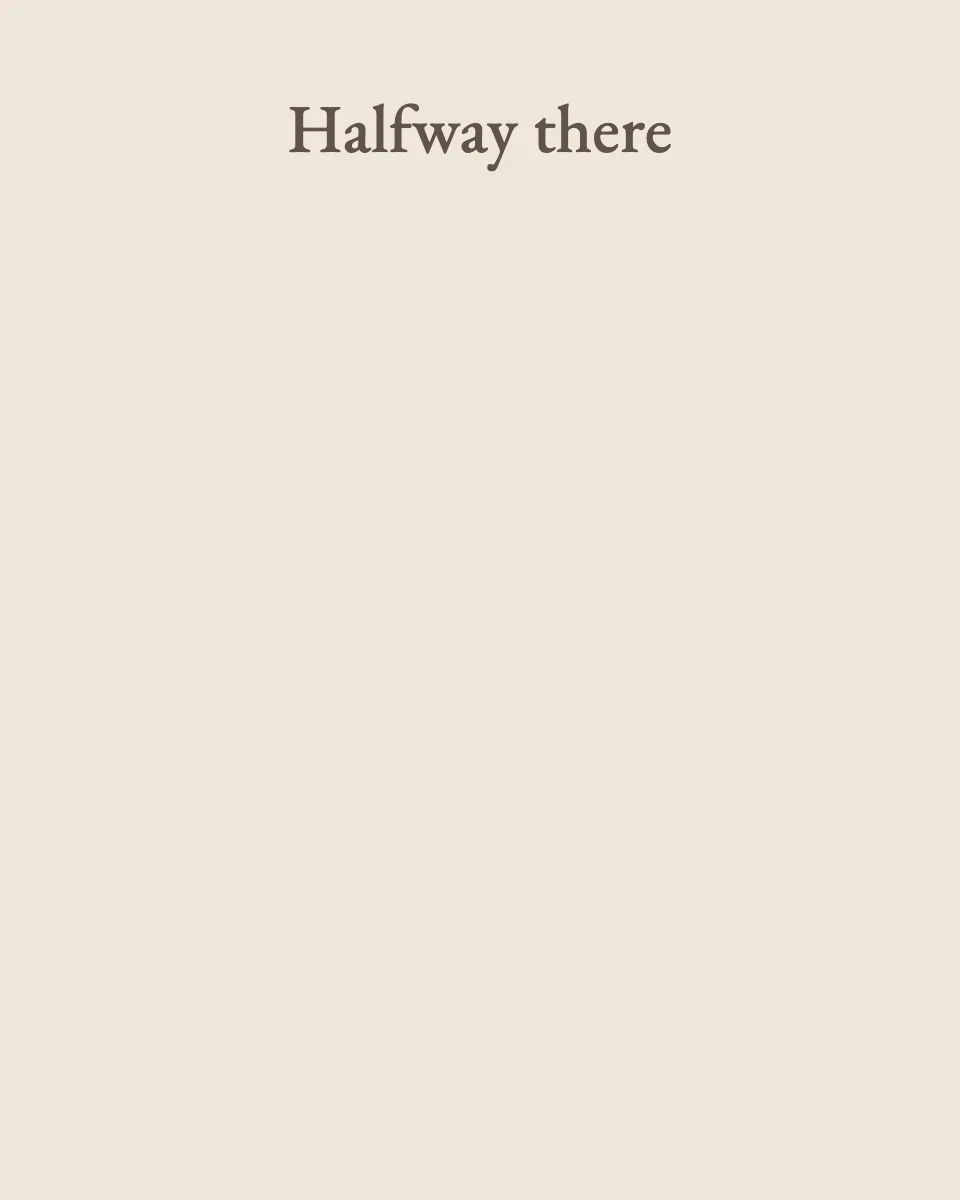
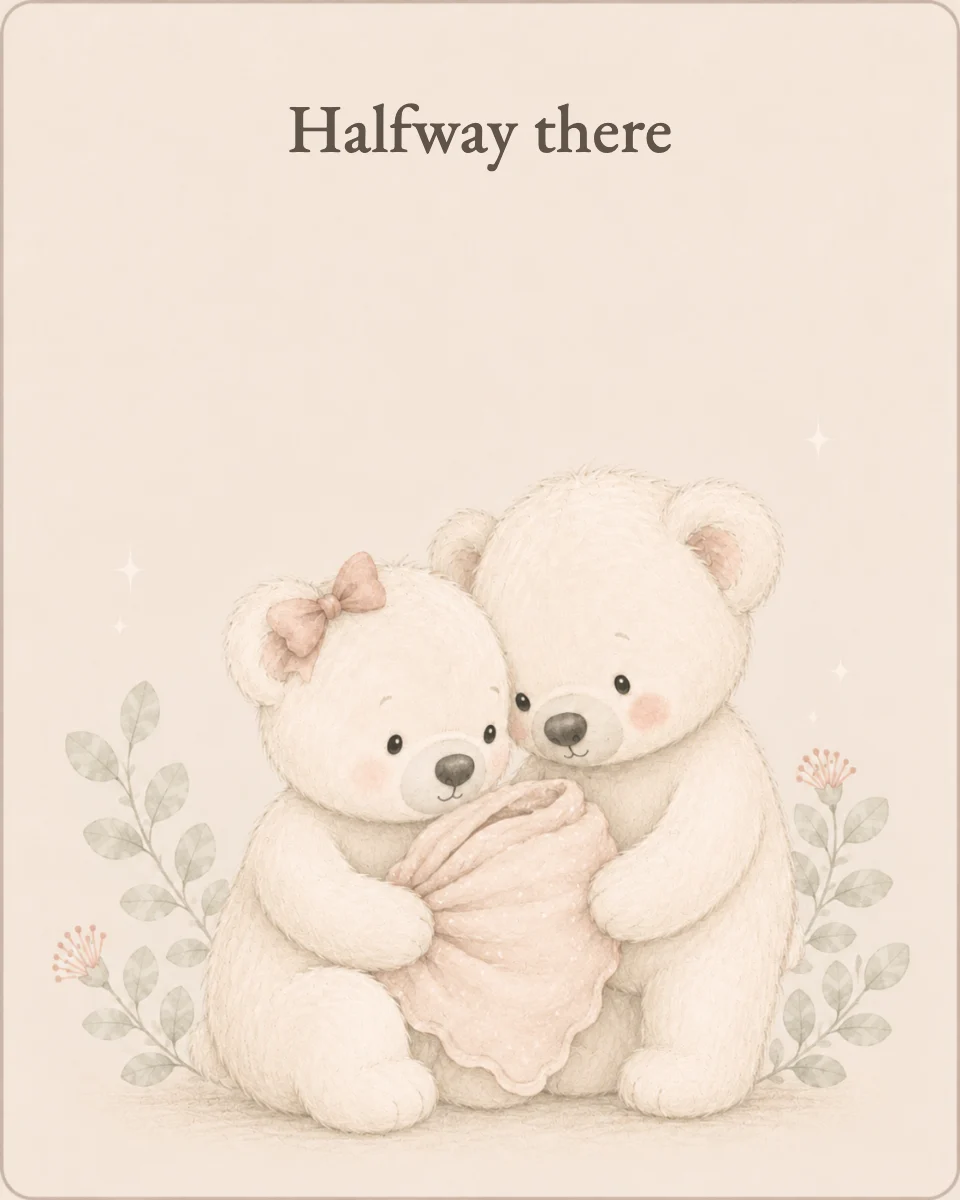
Moments: pregnancy gentle library — due-date countdown, owner-owned, +20 couple cards
"Before you arrived" is now live as its own gentle library on the pregnancy
Moments tab, anchored to the due date as a COUNTDOWN (unlike baby, which counts
up from birth). renderPregLibrary mirrors the baby library but:
- catalogue stage=Pregnancy; three phases (The secret / Telling & feeling / The
  countdown), the current gestational-week phase open by default.
- "For you right now · N weeks to go" — suggested cards near pregWeek().
- capture stored owner-owned in state.pregnancy.journey.saved (synced via the
  pregnancy doc) — NEVER the shared baby blob. Privacy split verified.

The capture sheet (renderMomentDetail/saveJourneyMoment/removeJourneyMoment) is
now scope-aware (baby vs preg) without changing the baby flow.

- 20 couple illustrations mapped + baked (discovery → shower → nursery → countdown).
- docs/MOMENTS-PLAN.md: pregnancy countdown spec.
- SW v146.

diff --git a/app/index.html b/app/index.html
@@ -3925,12 +3925,16 @@ function renderPregMoments(){
       </div>
     </div>`;
   }).join('');
+  const days=pregDaysToGo();
+  const togo=(days!=null&&days>=0)?(days<=7?'almost here':Math.round(days/7)+' weeks to go'):'';
   return `<div class="fade-in">
-    <div class="greeting">Moments 📷</div>
-    <div class="greeting-sub">Your scans and bump pictures, paired with how big your baby was that week. The first photo album, before the album.</div>
-    <button class="btn-primary" style="background:var(--preg);margin:6px 0 14px" onclick="openAddMoment()">${I.camera} Add a moment</button>
-    ${renderJourneySection(pj,'pregnancy',pregJourneyTitle())}
-    ${cards||(pj.length?'':`<div class="preg-card"><div class="pc-ico">🖼</div><div><div class="pc-t">Nothing here yet</div><div class="pc-b">Add your first ultrasound after a scan, or a bump photo any week. Each one is saved with the week and what size your baby was.</div></div></div>`)}
+    <div class="greeting">${escapeHtml(pregJourneyTitle())}</div>
+    <div class="greeting-sub">Your story before they arrive${togo?', '+escapeHtml(togo):''} — the little moments on the way to meeting them.</div>
+    ${renderPregLibrary()}
+    <div class="sec-title" style="margin-top:18px">Bump &amp; scan album</div>
+    <div class="greeting-sub" style="margin-bottom:10px">Week-tagged scans and bump photos, with how big your baby was that week.</div>
+    ${cards||''}
+    <div class="add-row" onclick="openAddMoment()">${I.plus} Add a bump or scan photo</div>
   </div>`;
 }
 function openAddMoment(){
@@ -6186,8 +6190,10 @@ function glPickWho(l,el){ if(!glDraft) return; glDraft.who=(glDraft.who===l)?'':
 function glLoadPhoto(input){ const f=input.files[0]; if(!f)return; downscaleToData(f,1200,0.8,function(data){ glDraft.photoData=data; glDraft.removePhoto=false; renderMomentDetail(); }); }
 function glClearPhoto(){ if(!glDraft) return; glDraft.photoData=null; glDraft.removePhoto=true; renderMomentDetail(); }
 function renderMomentDetail(){
-  const d=glDraft; if(!d) return; const card=d.card; const saved=glGetSaved(d.cardId); const isCustom=!!card.custom;
+  const d=glDraft; if(!d) return; const card=d.card; const isPreg=d.scope==='preg';
+  const saved=isPreg?pregJGet(d.cardId):glGetSaved(d.cardId); const isCustom=!!card.custom;
   const bn=escapeHtml((activeBaby()||{}).name||'your baby');
+  const sub=isPreg?'Saved privately to your pregnancy journey 🤍':(escapeHtml(card.section||'Moments')+' · saved privately to '+bn+'’s scrapbook');
   const title=isCustom?(d.title||'Your own moment'):(card.cap||'A moment');
   const preview=card.art?`<img class="card-prev" src="journey-art/${card.art}" alt="${escapeHtml(card.cap||'')}">`:'';
   const existing=(!d.removePhoto&&saved&&saved.photoId)?photoSrc(saved.photoId):'';
@@ -6196,7 +6202,7 @@ function renderMomentDetail(){
     : existing
       ? `<div class="food-preview"><img src="${existing}"><button class="rm" onclick="glClearPhoto()">×</button></div>`
       : `<button class="btn-ghost" style="margin:0" onclick="document.getElementById('glPhoto').click()">${I.camera} Add a photo</button>`;
-  openSheet(`<h2>${escapeHtml(title)}</h2><div class="sub">${escapeHtml(card.section||'Moments')} · saved privately to ${bn}’s scrapbook</div>
+  openSheet(`<h2>${escapeHtml(title)}</h2><div class="sub">${sub}</div>
     ${preview}
     ${isCustom?`<div class="field"><label>What happened?</label><input id="glTitle" maxlength="60" placeholder="e.g. First trip to the sea" value="${escapeHtml(d.title||'')}" oninput="glDraft.title=this.value"></div>`:''}
     <input type="file" id="glPhoto" accept="image/*" style="display:none" onchange="glLoadPhoto(this)">
@@ -6208,20 +6214,88 @@ function renderMomentDetail(){
     ${saved?`<button class="btn-ghost" style="margin-top:8px;color:var(--ink-soft)" onclick="removeJourneyMoment('${d.cardId}')">Remove this moment</button>`:''}`,'star');
 }
 async function saveJourneyMoment(){
-  const b=activeBaby(); const d=glDraft; if(!b||!d) return;
+  const d=glDraft; if(!d) return; const isPreg=d.scope==='preg'; const b=activeBaby();
+  if(!isPreg && !b) return; if(isPreg && !state.pregnancy) return;
   const note=((document.getElementById('glNote')||{}).value||'').trim();
   const date=((document.getElementById('glDate')||{}).value||'');
   const title=d.card.custom?((((document.getElementById('glTitle')||{}).value)||'').trim()):'';
-  const saved=glGetSaved(d.cardId)||{};
+  const saved=(isPreg?pregJGet(d.cardId):glGetSaved(d.cardId))||{};
   let photoId=saved.photoId||null; if(d.removePhoto) photoId=null;
   if(d.photoData){ photoId=uid(); await PhotoStore.set(photoId,d.photoData); }
   if(!photoId && !note && !(d.card.custom&&title)){ toast('Add a photo or a note'); return; }
   const rec={ photoId:photoId, note:note, date:date, who:d.who||'', at:saved.at||now(), updated:now() };
-  if(d.card.custom){ rec.custom=true; rec.title=title||'A moment'; rec.section='Custom moments'; }
-  journeySaved()[d.cardId]=rec;
-  glDraft=null; persist(); closeSheet(); render(); toast('Saved to '+(b.name||'your baby')+'’s scrapbook 🤍');
+  if(d.card.custom){ rec.custom=true; rec.title=title||'A moment'; rec.section=isPreg?'Before you arrived':'Custom moments'; }
+  if(isPreg) pregJSaved()[d.cardId]=rec; else journeySaved()[d.cardId]=rec;
+  glDraft=null; persist(); closeSheet(); render(); toast(isPreg?'Saved to your pregnancy journey 🤍':'Saved to '+(b.name||'your baby')+'’s scrapbook 🤍');
 }
-function removeJourneyMoment(id){ const m=journeySaved(); delete m[id]; glDraft=null; persist(); closeSheet(); render(); toast('Removed'); }
+function removeJourneyMoment(id){ const isPreg=glDraft&&glDraft.scope==='preg'; const m=isPreg?pregJSaved():journeySaved(); delete m[id]; glDraft=null; persist(); closeSheet(); render(); toast('Removed'); }
+
+/* ===== Pregnancy gentle library — owner-owned (state.pregnancy.journey.saved), anchored to the
+   due date so the story reads as a COUNTDOWN. Never the shared baby blob (privacy split). ===== */
+function pregJSaved(){ const p=state.pregnancy; if(!p) return {}; if(!p.journey) p.journey={}; if(!p.journey.saved) p.journey.saved={}; return p.journey.saved; }
+function pregJGet(id){ return pregJSaved()[id]||null; }
+function pregCat(){ return ((window.JOURNEY_CAT&&window.JOURNEY_CAT.cards)||[]).filter(function(c){return c.stage==='Pregnancy';}); }
+var PREG_MONTHS={one:4,two:8,three:12,four:16,five:20,six:24,seven:28,eight:32,nine:36};
+// timing/caption -> approx gestational week, so the journey reads as a countdown to the due date.
+function pregCardWeek(c){
+  const t=(c.timing||'').toLowerCase(), cap=(c.cap||'').toLowerCase(); var m;
+  if(/months? pregnant/.test(cap)){ m=cap.match(/(one|two|three|four|five|six|seven|eight|nine)/); if(m&&PREG_MONTHS[m[1]]) return PREG_MONTHS[m[1]]; }
+  if(/found out|two little lines|happy tears/.test(cap)) return 5;
+  if(/reveal|it.s a (boy|girl)/.test(cap)) return 20;
+  if(/announce/.test(cap)) return 14;
+  if(/chose your name/.test(cap)) return 28;
+  if(/blessed/.test(cap)) return 30;
+  if(/told (mama|papa)|our (little )?secret/.test(cap)) return 12;
+  if((m=t.match(/weeks? (\d+)\s*-\s*(\d+)/))) return Math.round((+m[1]+ +m[2])/2);
+  if((m=t.match(/approx week (\d+)|week (\d+)/))) return +(m[1]||m[2]);
+  if(/first trimester/.test(t)) return 9;
+  if(/second trimester/.test(t)) return 20;
+  if(/third trimester/.test(t)) return 32;
+  if((m=t.match(/(\d+)\s*days? to go/))) return Math.round(40-(+m[1])/7);
+  if(/final (week|day|month)|almost/.test(t)) return 38;
+  if(/due date|ready to meet|waiting/.test(t)) return 40;
+  if(/any day|overdue/.test(t)) return 40;
+  return 25;
+}
+function pregPhase(w){ return w<=13?0:w<=27?1:2; }
+var PREG_PHASES=[{t:'The secret'},{t:'Telling & feeling'},{t:'The countdown'}];
+function pregJSuggested(){
+  const wk=pregWeek(); const saved=pregJSaved();
+  return pregCat().filter(function(c){return !saved[c.id];}).map(function(c){return {c:c,w:pregCardWeek(c)};})
+    .filter(function(x){return x.w>=wk-2 && x.w<=wk+4;}).sort(function(a,b){return Math.abs(a.w-wk)-Math.abs(b.w-wk);}).slice(0,5).map(function(x){return x.c;});
+}
+function pregJCardHtml(card){
+  const saved=pregJGet(card.id);
+  const cls=saved?'saved':'empty';
+  const img=(saved&&saved.photoId)?photoSrc(saved.photoId):(card.art?('journey-art/'+card.art):'');
+  const art=img?`<img src="${img}" loading="lazy" alt="${escapeHtml(card.cap||'')}">`:`<div class="gl-ph">${escapeHtml(card.cap||(saved&&saved.title)||'A moment')}</div>`;
+  const cap=saved?`<div class="t">${escapeHtml(card.cap||saved.title||'')}</div><div class="s">${escapeHtml(saved.date?glDateLabel(saved.date):'Saved')}</div>`:`<div class="s">Add when ready</div>`;
+  const q=escapeHtml(((card.cap||'')+' '+(card.sub||'')).toLowerCase());
+  return `<div class="gl-card ${cls}" data-q="${q}" onclick="openPregMoment('${card.id}')"><div class="gl-art">${art}${saved?'<span class="gl-check">'+I.check+'</span>':''}</div><div class="gl-cap">${cap}</div></div>`;
+}
+function renderPregLibrary(){
+  const p=state.pregnancy; if(!p||state.lossHolding) return '';
+  const wk=pregWeek(), days=pregDaysToGo();
+  const togo=(days!=null&&days>=0)?(days<=7?'almost here':Math.round(days/7)+' weeks to go'):(days!=null?'any day now':'');
+  const cards=pregCat();
+  const sug=pregJSuggested();
+  const groups=[0,1,2].map(function(ph){
+    const cs=cards.filter(function(c){return pregPhase(pregCardWeek(c))===ph;}).sort(function(a,b){return pregCardWeek(a)-pregCardWeek(b);});
+    if(!cs.length) return '';
+    const saved=pregJSaved(); const sv=cs.filter(function(c){return saved[c.id];}).length;
+    const open=pregPhase(wk)===ph;
+    return `<details class="gl-group" ${open?'open':''} data-sec="${ph}"><summary><span class="gt">${PREG_PHASES[ph].t}</span><span class="gc">${sv?sv+' saved · ':''}${cs.length} moments</span></summary><div class="gl-grid">${cs.map(pregJCardHtml).join('')}</div></details>`;
+  }).join('');
+  return `<div id="pglRoot">
+    <div class="field gl-search"><input id="pglSearch" placeholder="Search your pregnancy moments…" autocomplete="off" oninput="pglFilter(this.value)"></div>
+    ${sug.length?`<div class="gl-suggest"><div class="gl-st"><span class="t">For you right now${togo?' · '+escapeHtml(togo):''}</span><span class="m">optional</span></div><div class="gl-rail">${sug.map(pregJCardHtml).join('')}</div></div>`:''}
+    <button class="gl-create" onclick="openPregMoment('cust-'+uid())"><span class="ic">${I.plus}</span>Add your own moment</button>
+    <div id="pglGroups">${groups}</div>
+  </div>`;
+}
+function pglFilter(q){ q=(q||'').trim().toLowerCase(); document.querySelectorAll('#pglGroups .gl-group').forEach(function(g){var any=false;g.querySelectorAll('.gl-card').forEach(function(c){var hit=!q||(c.getAttribute('data-q')||'').indexOf(q)>=0;c.style.display=hit?'':'none';if(hit)any=true;});g.style.display=any?'':'none';if(q)g.open=true;}); }
+function pregJCard(id){ var c=pregCat().find(function(x){return x.id===id;}); if(c) return c; var s=pregJGet(id); return {id:id, stage:'Pregnancy', section:'Before you arrived', cap:(s&&s.title)||'A moment', art:null, custom:true}; }
+function openPregMoment(id){ var card=pregJCard(id); if(id.indexOf('cust-')===0) card.custom=true; var s=pregJGet(id); glDraft={cardId:id, card:card, scope:'preg', photoData:null, removePhoto:false, who:(s&&s.who)||'', title:(s&&s.title)||''}; renderMomentDetail(); }
 function openPetSetup(){
   const b=activeBaby(); if(!b)return;
   openSheet(`<h2>Your pet 🐾</h2><div class="sub">Add your pet so Cubby can celebrate their firsts with ${escapeHtml(b.name)}. Skip anytime.</div>

diff --git a/app/sw.js b/app/sw.js
@@ -1,6 +1,6 @@
 /* Cubby service worker.
    Bump CACHE on every deploy so old assets are cleared. */
-const CACHE = 'little-log-v145';
+const CACHE = 'little-log-v146';
 const ASSETS = [
   '/app/',
   '/app/index.html',

diff --git a/docs/MOMENTS-PLAN.md b/docs/MOMENTS-PLAN.md
@@ -1,0 +1,121 @@
+# Moments & Milestones — Plan & Status
+
+The single source of truth for the Moments content + structure. Sprint-agnostic: we plan
+from here, not batch-to-batch. (Build context lives in `MOMENTS-HANDOFF.md`; tiers in
+`journey-tiers.json`.)
+
+_Last organized: 2026-06-30. Live: gentle library + 71 real watercolour cub cards, SW v145._
+
+---
+
+## 1. The card model — TWO types
+
+- **SINGLE moment** — one photo / note / date, captured once. The default.
+  _First tooth, First steps, Hello world, One month old._  ✅ works today.
+- **COLLECTION** — one card that holds **many** captures over time and grows into a little
+  album (shows a count + a stacked-photo look). For relationships and anything **recurring**.
+  _With Mama, Diwali, Birthdays._  🔧 **needs build** (small: a `collection` flag + multi-capture in the moment sheet; the relationship-photo feature already does multi-capture today).
+
+**Why this matters (less-is-more):** collections collapse ~40 thin, arbitrary cards into a
+handful of meaningful ones that *deepen for years*. Fewer cards, more capturing.
+
+---
+
+## 2. Status by section
+
+| Section | total | core / nice / filler | single / collection | art done |
+|---|---|---|---|---|
+| Before you arrived (pregnancy) | 54 | 46 / 0 / 8 | 54 / — | 1* |
+| Newborn days | 35 | 30 / 0 / 5 | 35 / — | 8 |
+| Monthly growth | 34 | 23 / 0 / 11 | 30 / 4 | 24 ← **year 1–12 done** |
+| Firsts (the heart) | 51 | 49 / 2 / 0 | 51 / — | 31 |
+| About me | 35 | 16 / 0 / 19 | 35 / — | 6 |
+| With family | 25 | 25 / 0 / 0 | → **6 collections** | 0 |
+| Special days | 25 | 22 / 3 / 0 | 14 / 11 | 1 |
+| Custom moments | 30 | — | — / 30 | 0 |
+| **TOTAL** | **289** | **211 core** | | **71 done** |
+
+\*We also have ~20 pregnancy couple illustrations made (not yet mapped/baked to cards).
+
+---
+
+## 3. Decisions locked
+
+- **Skip the 43 filler — never generate, hide from the live library:** months 13–23, daily
+  newborn (1–5 days old), and the vague About-me ("I am brave", "I had a grumpy day", "Today
+  I surprised everyone"). Keeps it calm (Charter / Anxiety Test).
+- **Teething = one "First tooth".** Don't track all 4 teeth — the *moment* is celebrated, the
+  *count* isn't (same trap as the 13–23 months).
+- **With family 25 → 6 collections:** With Mama · With Papa · With Grandma · With Grandpa ·
+  With siblings · Our whole family. Keep the true one-time events as singles: First family
+  photo, First sibling moment, First time meeting Grandma/Grandpa, First video call.
+- **Recurring = collections:** festivals (Diwali, Christmas, Eid, Holi, Onam, Rakhi,
+  Thanksgiving, Halloween, New Year) and birthdays — capture every year, the card grows.
+- **Gap to add:** **First potty** (genuinely celebrated, currently missing).
+- **Pregnancy "Before you arrived"** is deferred from the live baby tab (owner-owned privacy);
+  surface it on the pregnancy Moments tab — separate wiring pass.
+
+---
+
+## 4. Generation roadmap (in journey order, core only)
+
+Done ✅: pregnancy hero (We found out) · first year 1–12 · the iconic firsts.
+
+Next, by track:
+1. **Cub solo — remaining Firsts** (~20): I ran · climbed · first kiss · made a friend ·
+   first book · first shoes · first beach · first road trip · first flight · first daycare ·
+   first artwork · first medicine · first vaccine · first fever · **first potty (new)**.
+2. **Cub solo — About-me "I love"** (~10): love bath · story · nap · music · being outside ·
+   my blanket · my teddy · Mama · Papa.
+3. **Parent + cub** (~10, parent bear in frame): first cuddle with Mama · with Papa ·
+   first family photo · going home · + the 6 relationship collection illustrations.
+4. **Recurring collections** (~10 illos): the festivals + birthdays.
+5. **Pregnancy couples** (~25): map the ~20 already made, then the rest (kicks, scans, bump,
+   telling family, countdown).
+
+Effective remaining unique illustrations ≈ **120–130** (collections + skipping filler cut it
+well below the 218 placeholders).
+
+---
+
+## 5. Build tasks (code)
+
+- [ ] **Multi-capture** — `collection` flag; collection cards hold many moments (count + stack).
+- [ ] **Catalogue restructure** — collapse With-family → 6 collections; tag festivals/birthdays
+      as collections; add **First potty**; mark the 43 filler hidden from the live library.
+- [ ] **Pregnancy surface** — wire "Before you arrived" onto the owner-owned pregnancy tab.
+- [ ] (done) tiering, single-card bake (`JOURNEY_ONLY`), `gen_art.js`, the skill.
+
+---
+
+## 6. How we work (the loop)
+
+I hand you a **detailed batch** (master style block + per-card scenes, in order) → you generate
+10 in ChatGPT and **download in order** → say **"done"** → I pull from Downloads, map, bake, and
+ship. Skip filler. Collections get one illustration each, not one per moment.
+
+---
+
+## 7. Pregnancy countdown — "Before you arrived" (LIVE)
+
+Pregnancy is **anchored to the due date** and reads as a **countdown** (unlike baby, which counts
+up from birth). Built on the **owner-owned** pregnancy Moments tab (`state.pregnancy.journey.saved`,
+synced via the pregnancy doc — never the shared baby blob). `renderPregLibrary()` mirrors the baby
+library but: catalogue `stage=Pregnancy`, suggested-now = cards near the current gestational week
+(`pregWeek()`), groups = the three phases, current phase open. "For you right now · N weeks to go."
+
+**Three phases (≈46 moments + a bump collection):**
+- **The secret** (1st tri, wk 5–13): We found out · Two little lines · First doctor visit · First
+  ultrasound · We heard your heartbeat · We told Mama / Papa · And then there were three.
+- **Telling & feeling** (2nd tri, wk 14–27): We announced you · First bump photo · First kick ·
+  Halfway there · Gender reveal (boy / girl / team green) · You kicked for Mama/Papa · 100 days to go.
+- **The countdown** (3rd tri, wk 28–40) — *the most emotional stretch*: We chose your name · Baby
+  shower · Maternity shoot · Nursery is ready · 50/30/10 days to go · Hospital bag · Last bump photo ·
+  **Our final days as two · Ready to meet you · Due date**.
+
+**Bump = a collection** (capture each month) → replaces the 9 "N months pregnant" cards (needs the
+multi-capture build; placeholder singles for now).
+
+**Status:** library live + due-date countdown wired; **20 couple illustrations baked** (discovery →
+shower → nursery → countdown); ~25 remaining to generate (kicks, scans, telling family, the final
+countdown), in week order.
